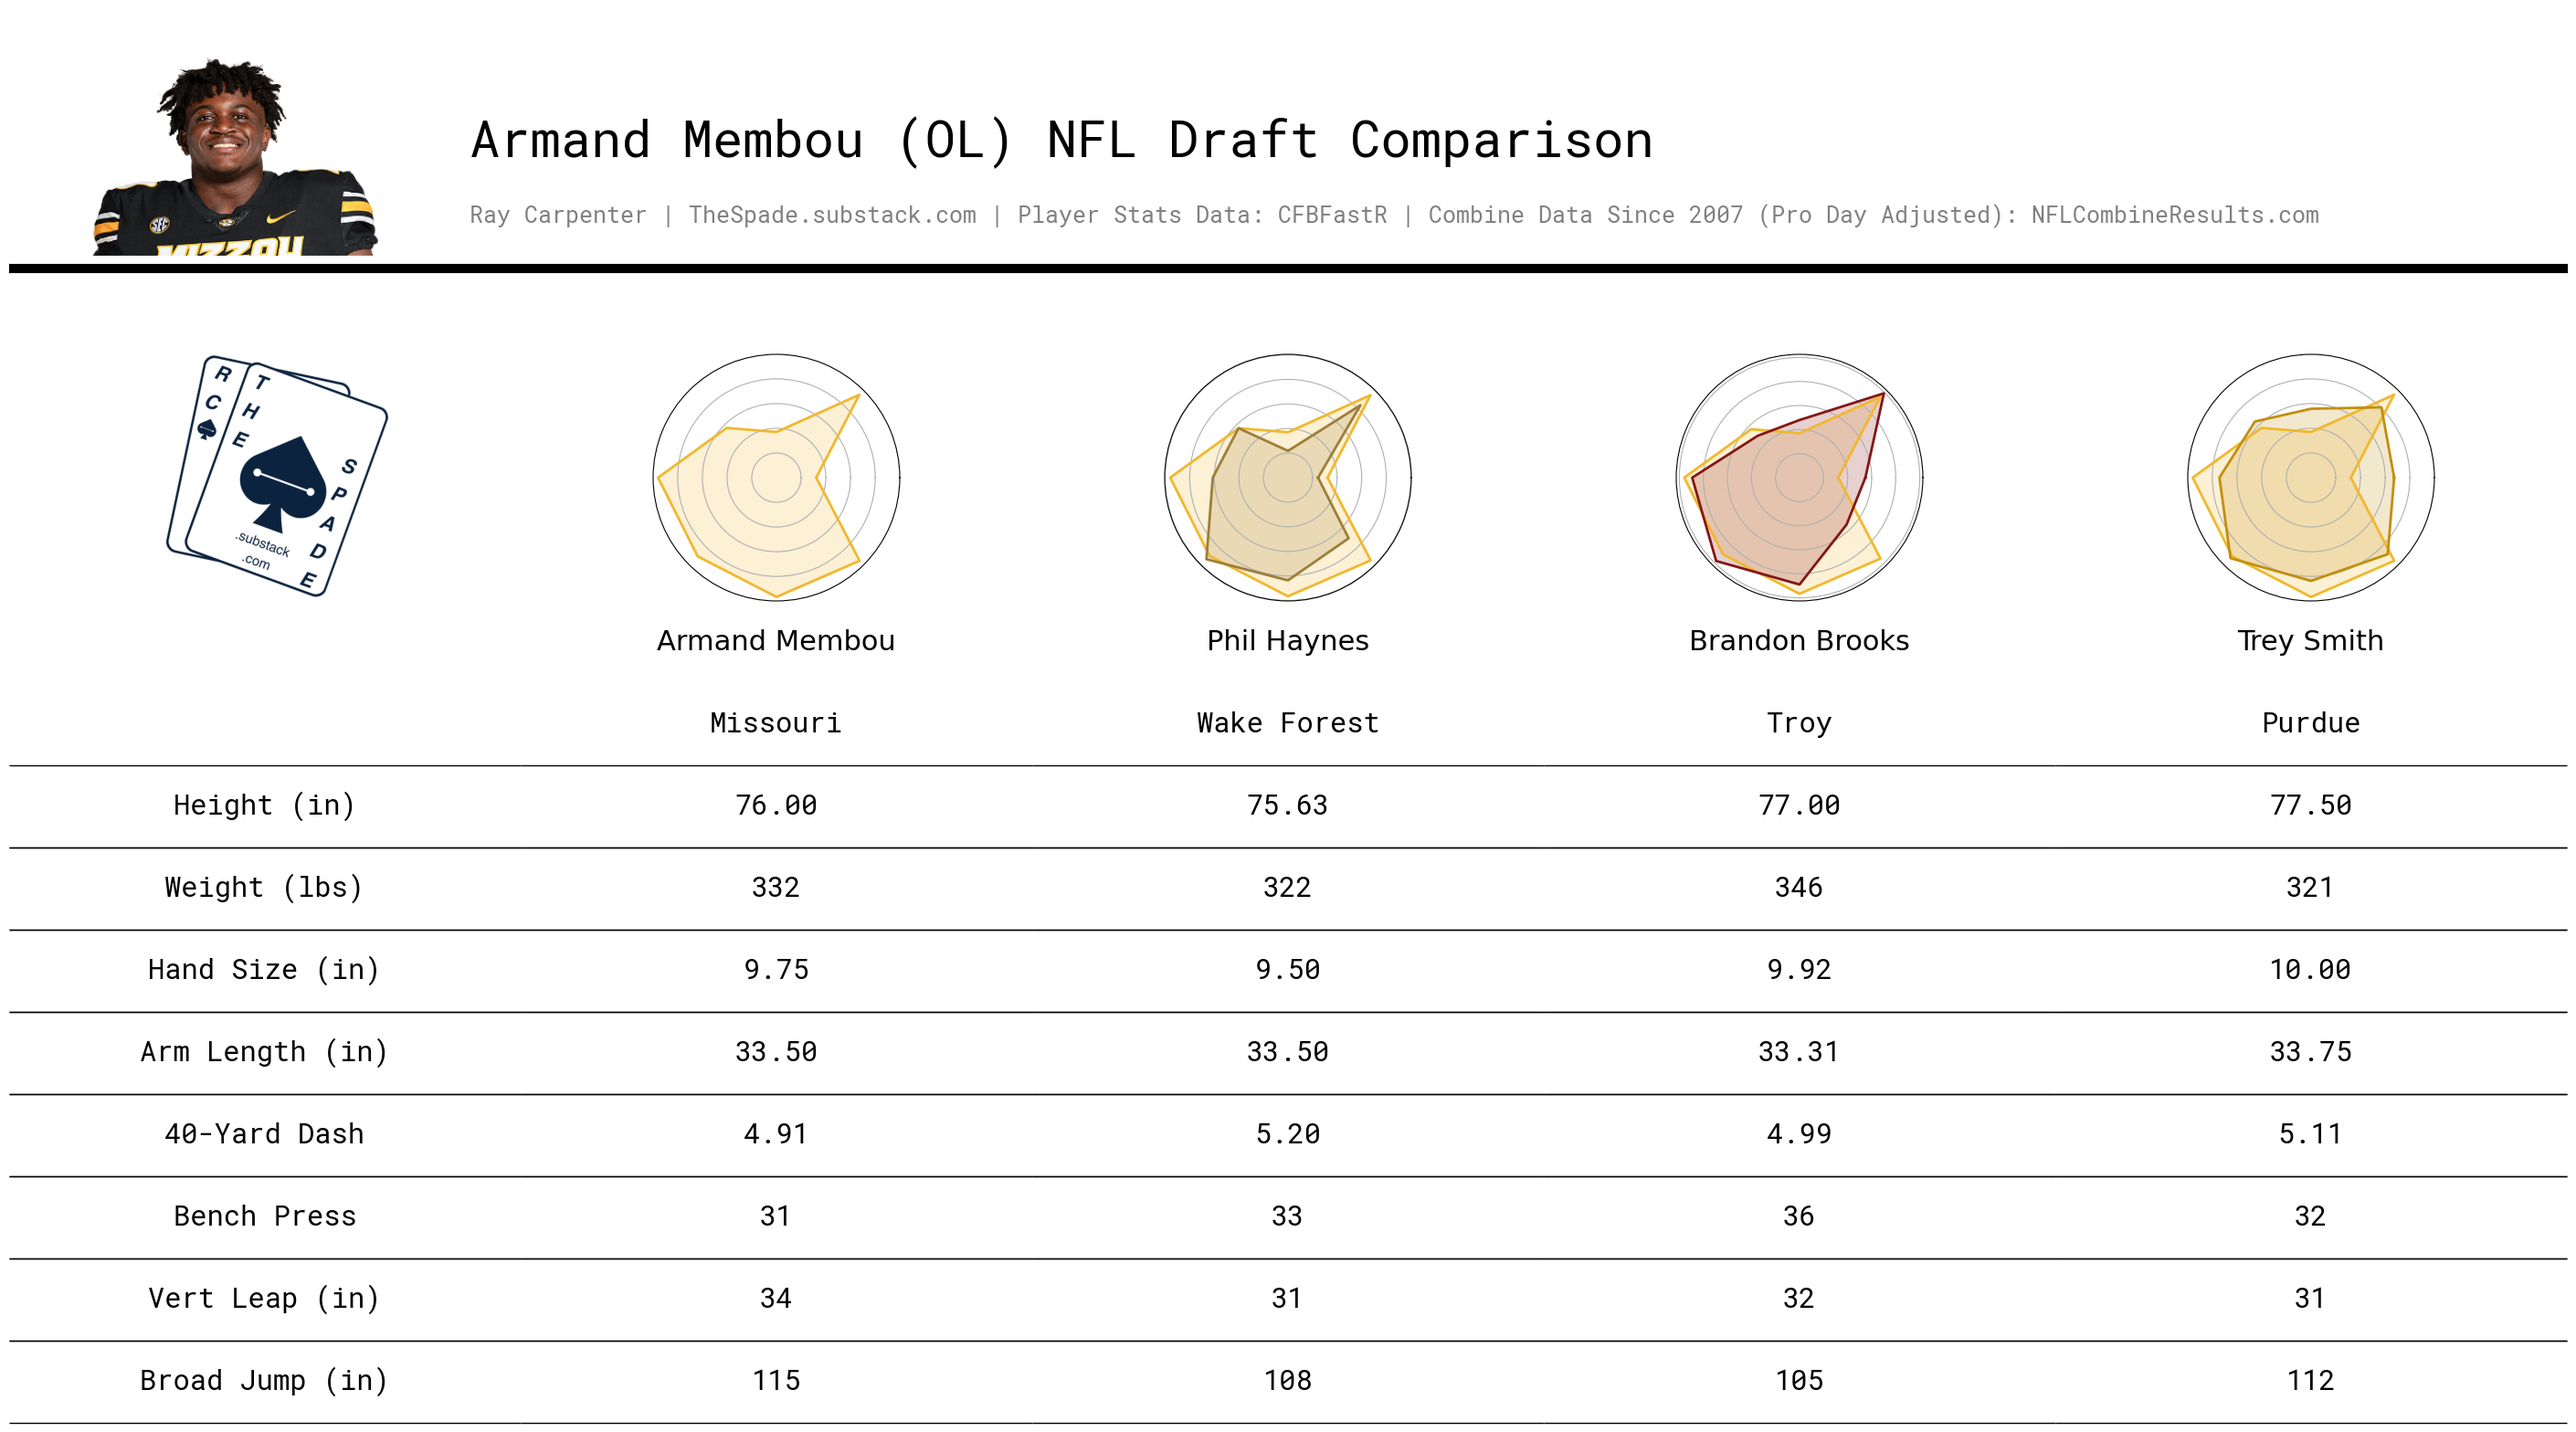
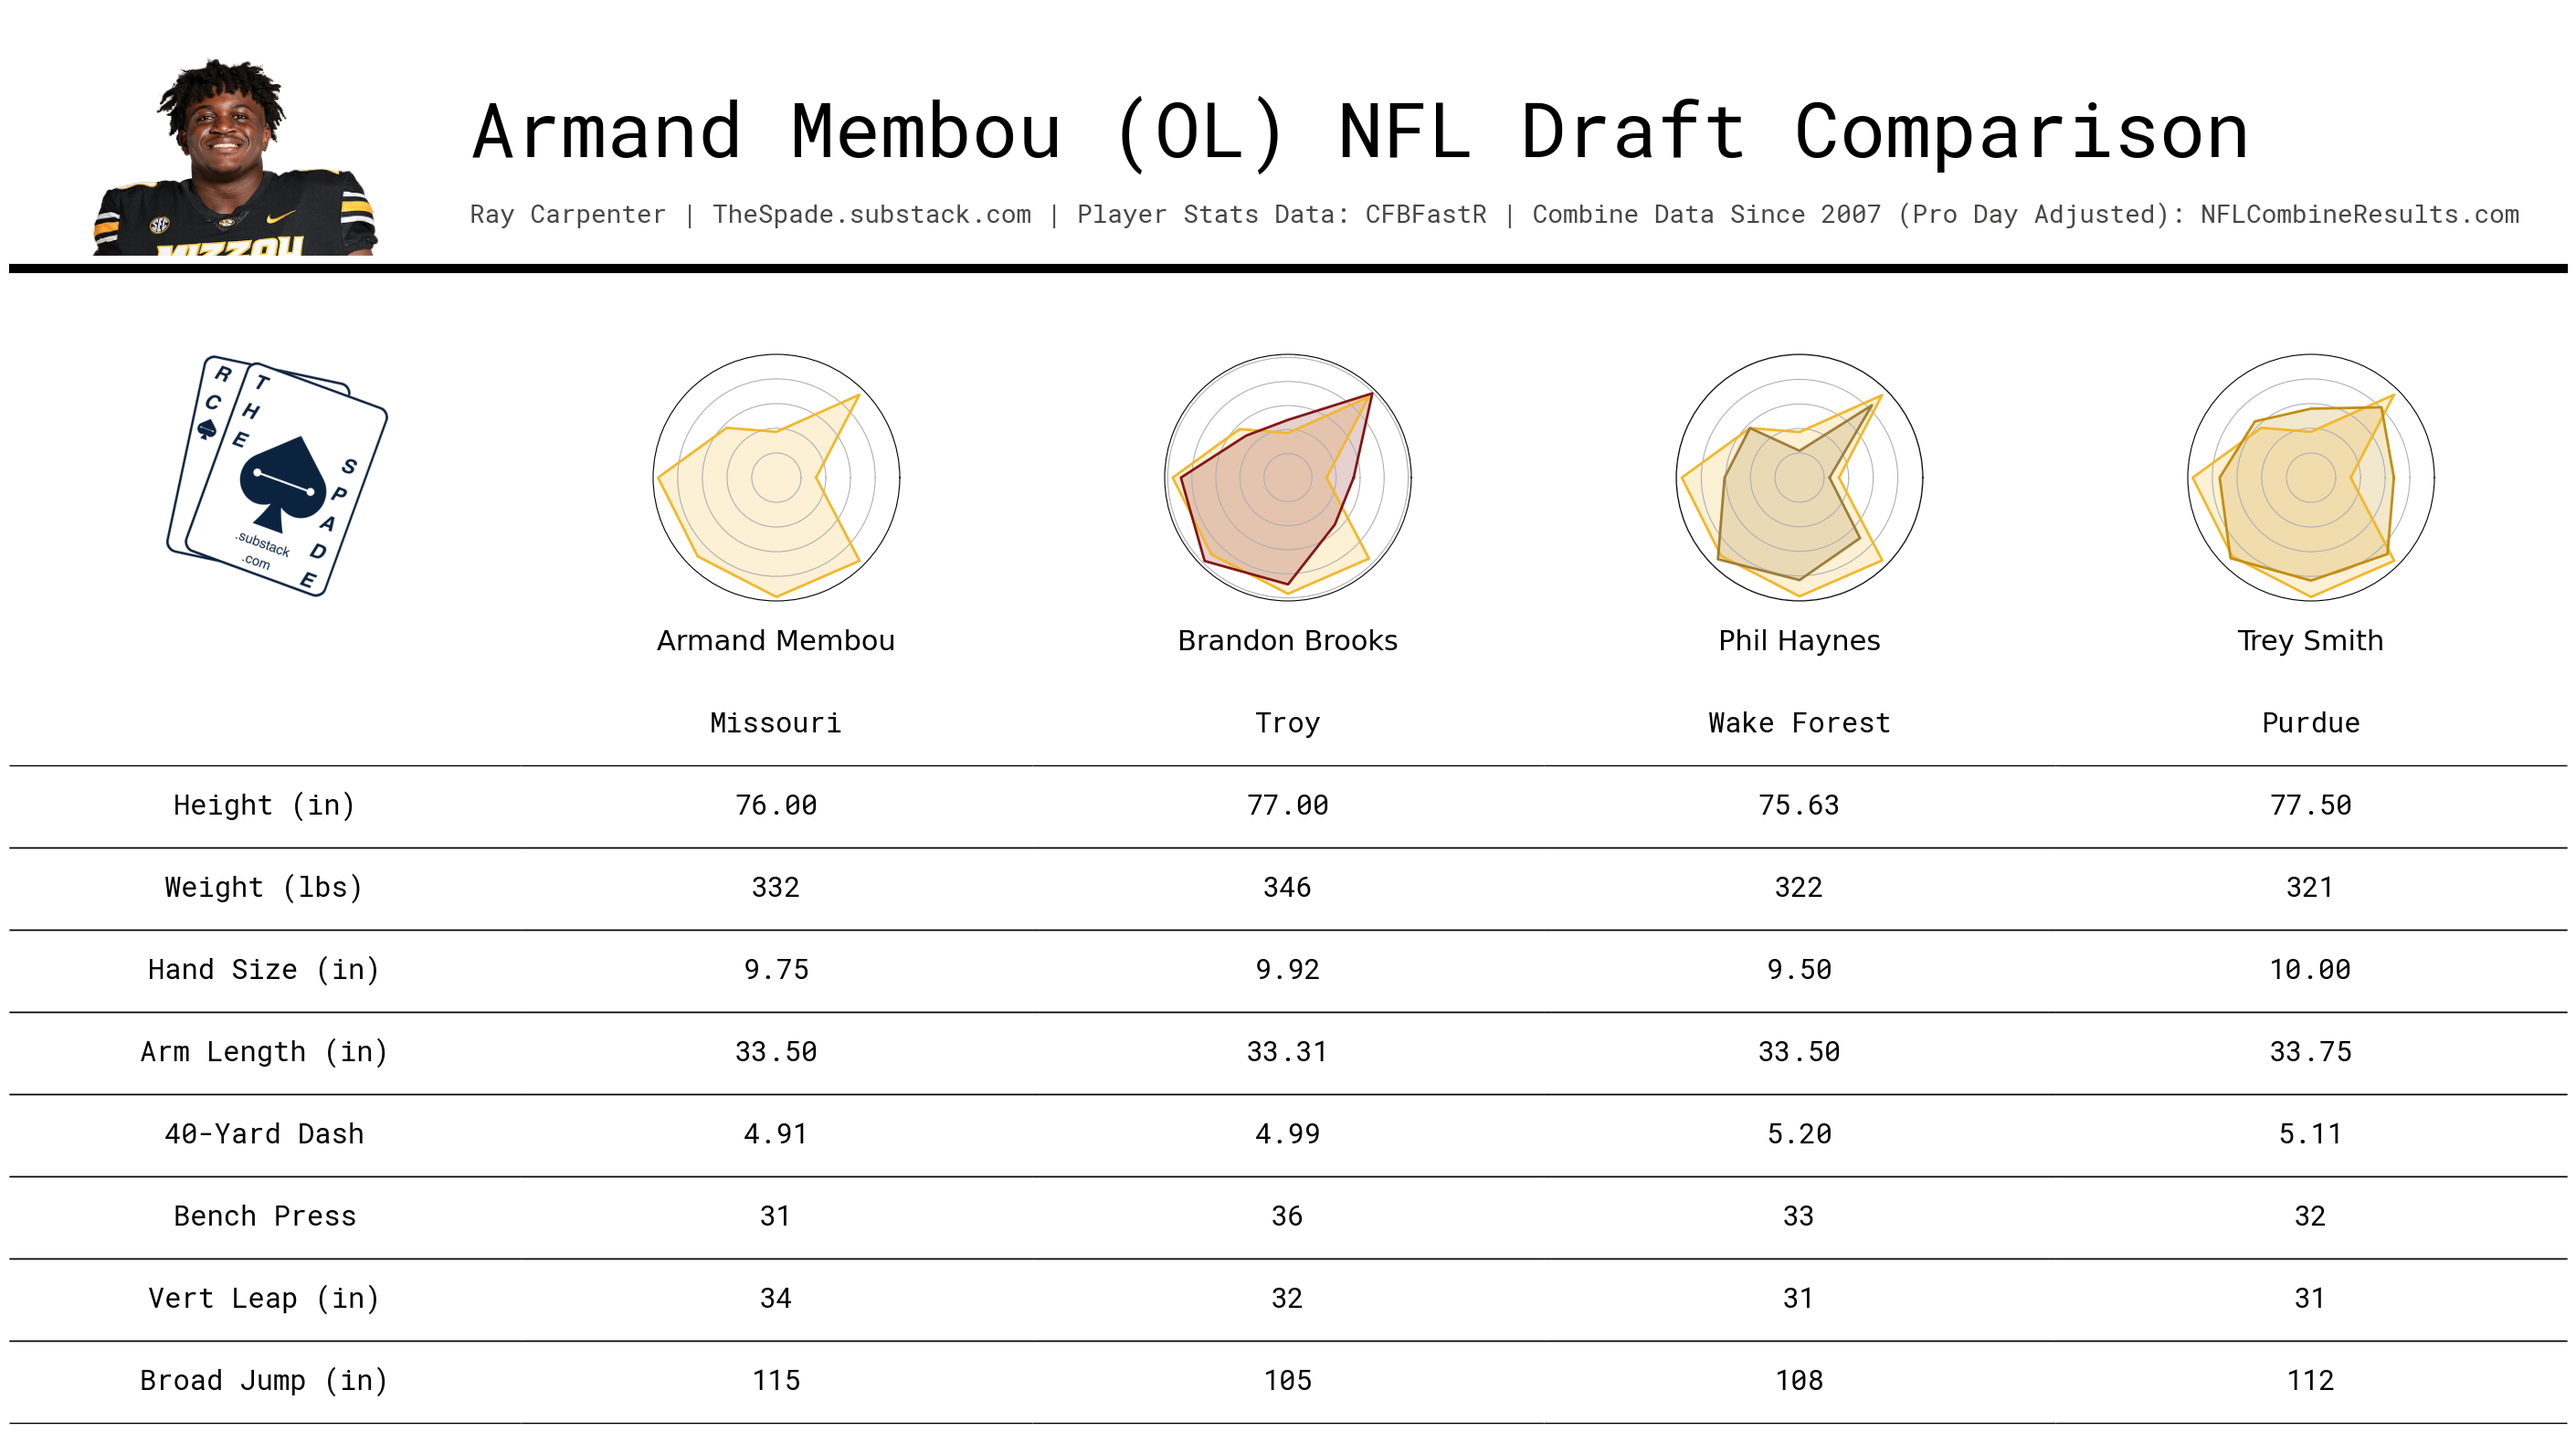
Font colors and sizes

diff --git a/plotting.py b/plotting.py
@@ -60,14 +60,14 @@ class DraftComparisonPlotter:
         title_text = f"{self.input_player} ({self.proc.player_position}) NFL Draft Comparison"
         fig.text(
             0.18, 0.82, title_text,
-            fontsize=40, fontweight="bold",
+            fontsize=60, fontweight="bold",
             ha="left", fontproperties=ROBOTO
         )
         fig.text(
             0.18, 0.78,
             "Ray Carpenter | TheSpade.substack.com | "
             "Player Stats Data: CFBFastR | Combine Data Since 2007 (Pro Day Adjusted): NFLCombineResults.com",
-            fontsize=18, fontweight="bold", ha="left", color="gray", fontproperties=ROBOTO
+            fontsize=20, ha="left", color="#474746", fontproperties=ROBOTO
         )
 
         divider_ax = fig.add_axes([0, 0.75, 1, 0.005])
@@ -305,7 +305,7 @@ class SinglePlayerPlotter:
 
         plt.suptitle(
             f"{self.input_player} NFL Draft Percentile Profile",
-            fontsize=22,
+            fontsize=24,
             fontweight='bold',
             fontproperties=ROBOTO,
             color=team_color,

diff --git a/main.py b/main.py
@@ -6,7 +6,7 @@ from config import FILTERED_STATS_PATH, COMBINE_STATS_PATH
 def main(viz_type="comparison"):
     stats_df = load_data(FILTERED_STATS_PATH, COMBINE_STATS_PATH)
     
-    input_player = "Moliki Matavao"
+    input_player = "Armand Membou"
     
     processor = DataProcessor(stats_df)
     processor.process(input_player)
